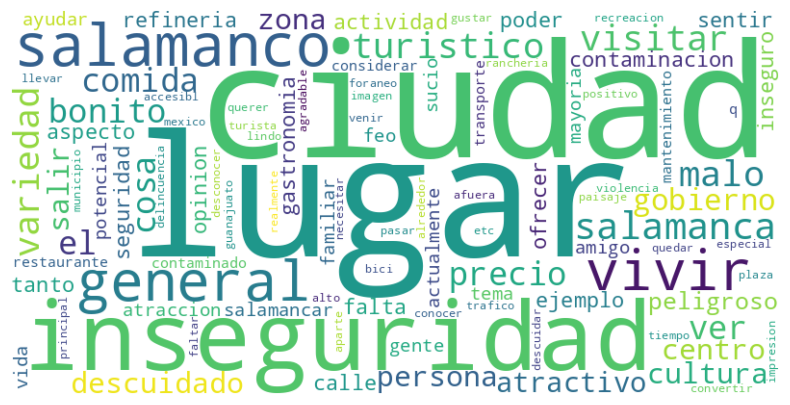
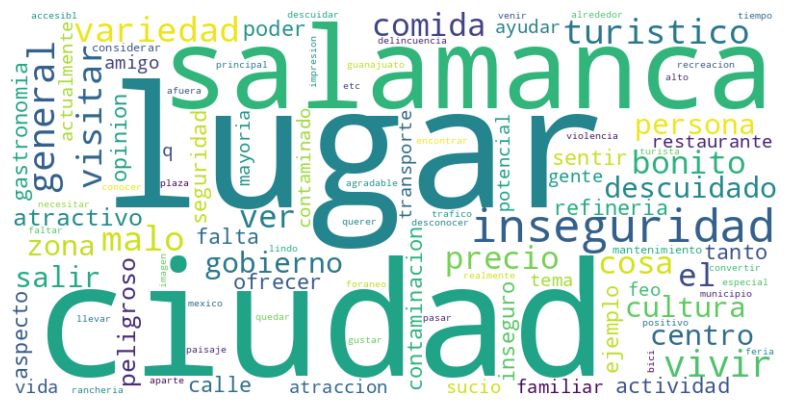
Updating process_nlp_tokens

diff --git a/nlp_analysis.py b/nlp_analysis.py
@@ -75,11 +75,16 @@ def process_nlp_tokens(text, nlp_model):
     if(pd.isna(text) or text == ""):
         return []
 
+    protected_words = municipios_guanajuato + municipios_estados
+
     doc = nlp_model(text)
     tokens = []
     for token in doc:
         if not token.is_stop and not token.is_punct and token.text.strip() != "":
-            tokens.append(token.lemma_)
+            if(token.text in protected_words):
+                tokens.append(token.text)
+            else:
+                tokens.append(token.lemma_)
     return tokens
 
 def build_ngrams_and_frequency(texts_tokens, n):
